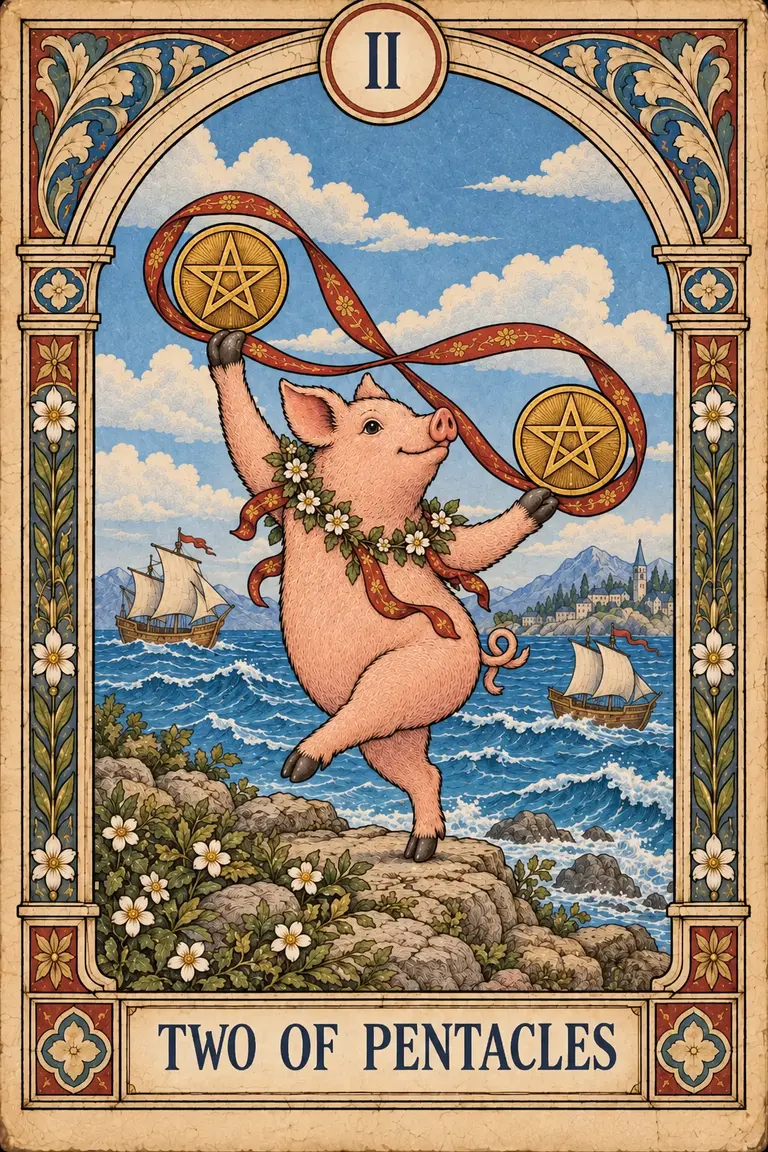
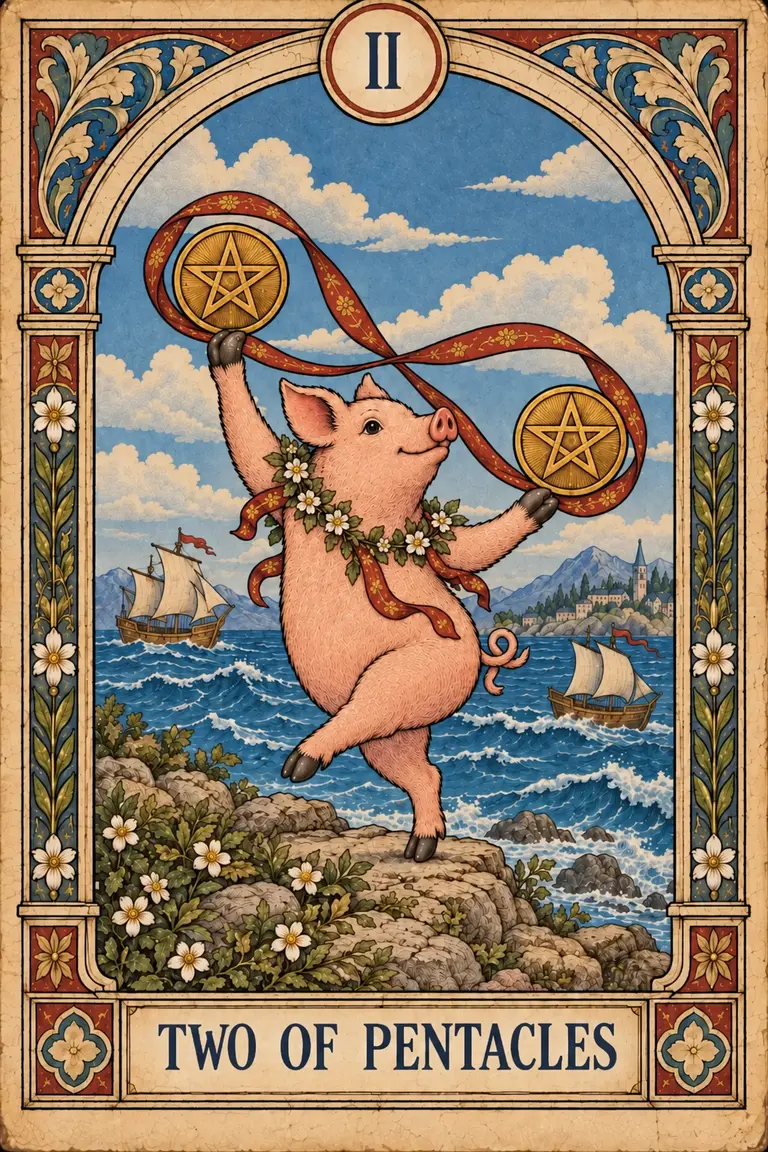
Slightly mute Two of Pentacles color grade

diff --git a/assets/js/tarot.js b/assets/js/tarot.js
@@ -113,7 +113,7 @@ export function createTarotCabinet() {
   function render() {
     const visible = cards.filter(card => group === 'all' || card.group === group);
     grid.innerHTML = visible.map(card => `<button class="tarot-card ${card.artwork ? 'is-collected' : 'is-pending'} ${revealed.has(card.id) ? 'is-revealed' : ''}" data-id="${escape(card.id)}" type="button" aria-label="${revealed.has(card.id) ? `查看${escape(card.name)}详情` : `翻开${escape(card.name)}`}">
-      <span class="tarot-art"><span class="tarot-card-inner"><span class="tarot-face tarot-back"><img src="assets/tarot/card-back.webp?v=2651" alt="" width="320" height="480" loading="lazy" decoding="async"></span><span class="tarot-face tarot-front">${card.artwork ? `<img src="assets/tarot/${escape(card.artwork)}?v=pentacles-123-uniform-20261019" alt="${escape(card.name)}牌面" width="320" height="480" loading="lazy" decoding="async" fetchpriority="low">` : `<span class="tarot-placeholder"><b>${escape(card.number)}</b><i>VESPERION</i><span>馆藏空位</span></span>`}</span></span></span>
+      <span class="tarot-art"><span class="tarot-card-inner"><span class="tarot-face tarot-back"><img src="assets/tarot/card-back.webp?v=2651" alt="" width="320" height="480" loading="lazy" decoding="async"></span><span class="tarot-face tarot-front">${card.artwork ? `<img src="assets/tarot/${escape(card.artwork)}?v=pentacles-two-tone-20261019" alt="${escape(card.name)}牌面" width="320" height="480" loading="lazy" decoding="async" fetchpriority="low">` : `<span class="tarot-placeholder"><b>${escape(card.number)}</b><i>VESPERION</i><span>馆藏空位</span></span>`}</span></span></span>
       <span class="tarot-meta"><small>${card.group === 'major' ? 'MAJOR ARCANA' : card.group.toUpperCase()}</small><b>${escape(card.name)}</b><em>${escape(card.title)}</em></span>
     </button>`).join('');
     const collected = visible.filter(card => card.artwork).length;
@@ -187,7 +187,7 @@ export function createTarotCabinet() {
       readingTable.innerHTML = selected.map((card, index) => `<article class="draw-slot" data-draw-index="${index}">
         <p class="draw-position">${escape(positions[index])}</p>
         <button class="draw-card" type="button" aria-label="翻开${escape(positions[index])}牌">
-          <span class="draw-card-inner"><span class="draw-face draw-back" aria-hidden="true"><img src="assets/tarot/card-back.webp?v=2651" alt="" width="320" height="480" decoding="async"></span><span class="draw-face draw-front"><img src="assets/tarot/${escape(card.artwork)}?v=pentacles-123-uniform-20261019" alt="" width="320" height="480" decoding="async"></span></span>
+          <span class="draw-card-inner"><span class="draw-face draw-back" aria-hidden="true"><img src="assets/tarot/card-back.webp?v=2651" alt="" width="320" height="480" decoding="async"></span><span class="draw-face draw-front"><img src="assets/tarot/${escape(card.artwork)}?v=pentacles-two-tone-20261019" alt="" width="320" height="480" decoding="async"></span></span>
         </button>
         <span class="draw-hint">点击翻牌</span>
         <p class="draw-meaning"><b>${escape(card.name)} · ${escape(card.title)}</b>${escape(practiceMeaning(card))}</p>

diff --git a/assets/js/main.js b/assets/js/main.js
@@ -1,6 +1,6 @@
 import { createArchive, loadSpecimens } from './archive.js?v=20261015-specimens-51';
 import { initTheme } from './theme.js?v=20261011-safari-1';
-import { createTarotCabinet } from './tarot.js?v=20261019-pentacles-123-uniform';
+import { createTarotCabinet } from './tarot.js?v=20261019-pentacles-two-tone';
 
 const QUOTES = ['“可猫可猪；若必须二选一，仍然是猪。”', '“爸爸爸爸——”', '“咪————”', '“今天已经是明晚了。”', '“蜗牛胜出，芝士沉默。”', '“本猪合格，可以继续抱。”', '“一只宇宙无敌第一可爱萌猪诞生惹。”', '“这不是烧钱，这是文化传播经费。”'];
 

diff --git a/index.html b/index.html
@@ -150,7 +150,7 @@
     <div id="tarotDialogContent"></div>
   </dialog>
   <div class="toast" id="toast" role="status"></div>
-  <script type="module" src="assets/js/main.js?v=20261019-pentacles-123-uniform"></script>
+  <script type="module" src="assets/js/main.js?v=20261019-pentacles-two-tone"></script>
 </body>
 </html>
 
